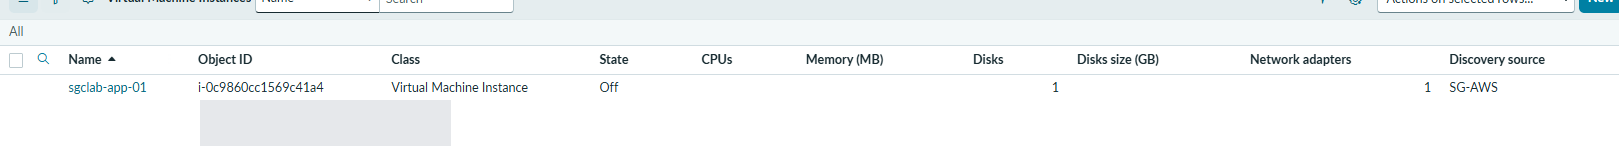
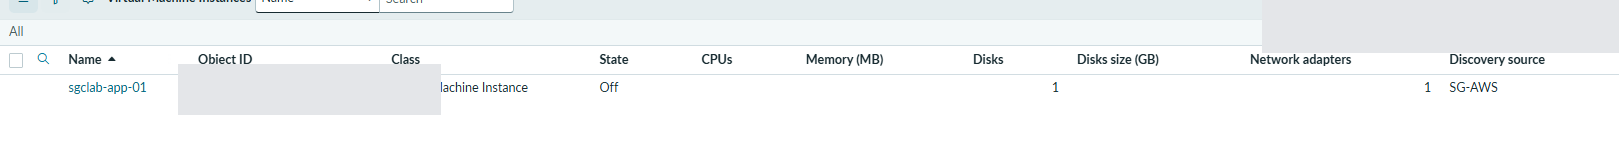
fix: redact Object ID cell in lab05 VM screenshot (privacy)
Correct crop box on data row; OCR self-check in redact script.
Document verified IntegrationHub ETL navigation for Lab 6 Part A.

Changed region(s): [[0.0926, 0.4295, 0.2779, 0.9933], [0.8338, 0.0, 1.0, 0.1074], [0.7721, 0.2953, 1.0, 0.3758]]

diff --git a/scripts/redact_lab05_screenshots.py b/scripts/redact_lab05_screenshots.py
@@ -1,23 +1,39 @@
 #!/usr/bin/env python3
 """Re-apply privacy crops for lab05 PNGs from maintainer source uploads."""
+from __future__ import annotations
+
+import re
+import sys
 from pathlib import Path
 
+import pytesseract
 from PIL import Image, ImageDraw
 
 SRC = Path("lab-walkthrough-screenshots/lab05")
 OUT = Path("assets/img/lab05")
 
+# Cropped list view: one data row (~y 74–108 at x≈215–420 is Object ID on walkthrough capture).
+_CROP_TOP = 72
+_OBJ_BOX = (178, 64, 440, 114)  # covers full Object ID cell on walkthrough capture
+_TOP_RIGHT = lambda w: (int(w * 0.78), 0, w, 52)
+
+INSTANCE_ID = re.compile(r"i-0|i-[0-9a-f]{8,}", re.I)
+
 
 def discovery(src: Path, dst: Path) -> None:
     im = Image.open(src).convert("RGB")
     w, h = im.size
-    im = im.crop((0, 72, w, h))
-    w, _ = im.size
+    im = im.crop((0, _CROP_TOP, w, h))
+    w, h = im.size
     dr = ImageDraw.Draw(im)
-    dr.rectangle((200, 100, 450, 145), fill=(230, 232, 235))
-    dr.rectangle((int(w * 0.82), 0, w, 48), fill=(230, 232, 235))
+    dr.rectangle(_OBJ_BOX, fill=(230, 232, 235))
+    x0, y0, x1, y1 = _TOP_RIGHT(w)
+    dr.rectangle((x0, y0, x1, y1), fill=(230, 232, 235))
     dst.parent.mkdir(parents=True, exist_ok=True)
     im.save(dst, optimize=True)
+    text = pytesseract.image_to_string(im)
+    if INSTANCE_ID.search(text):
+        sys.exit("redaction failed: instance id still visible to OCR")
 
 
 def crop_top(src: Path, dst: Path, top: int = 100) -> None:
@@ -34,6 +50,7 @@ def main() -> None:
     discovery(SRC / "discovery-source.png", OUT / "vm-discovery-source.png")
     crop_top(SRC / "ire-ident-rule-1.png", OUT / "vm-identification-rule.png")
     copy(SRC / "ire-dependent-rels.png", OUT / "vm-dependent-relationships.png")
+    print("wrote", OUT)
 
 
 if __name__ == "__main__":

diff --git a/labs/06-etl-mappings.md b/labs/06-etl-mappings.md
@@ -27,25 +27,35 @@ permalink: /labs/06-etl-mappings/
 
 Part A does not assume classic EC2 **`DescribeInstances`** JSON (`Reservations[].Instances[]`). This connector path is tied to **AWS Config** / Service Graph payloads — **your** import set row payload is the source of truth for JSON paths.
 
-## Part A — First safe navigation (confirm on your UI)
+## Part A — Verified navigation (read-only)
 
-Menu names move between releases. Use **Filter Navigator** and search; do not trust a single path from this doc until you see it:
+Walkthrough-confirmed path (yours should match before you trust it):
 
-1. Open **IntegrationHub**, **Flow Designer**, or the **Service Graph Connector for AWS** app — whichever exists.
-2. Search for **ETL**, **transform**, or **mapping** definitions tied to **EC2**, **VM**, or **hardware** (exact title varies).
-3. Open the definition used by **`SG-AWS-EC2`** (match name or schedule link on your release).
-4. In **Transform**, locate mappings targeting **`cmdb_ci_vm_instance`** (not `cmdb_ci_ec2_instance`).
+1. **All** → search **IntegrationHub ETL**.
+2. **Configuration → IntegrationHub ETL**.
+3. Expand **CMDB Application: SG-AWS** (count varies, e.g. **33**).
+4. Open **Name** **`SG-AWS-EC2-Instance`** — this is the **ETL definition**, not the scheduled import label **`SG-AWS-EC2`** and not the data source alone.
 
-**Learner confirmation:** write down the **exact definition name** and **three target fields** you see (`name`, `object_id`, and one tag). If you cannot find a mapping editor, stop at Part A — note “mapping UI not exposed on this PDI” and continue to Lab 7.
+**Transform Map Assistant** banner (verbatim meaning): no import set associated → maps are **read-only** until you pick a sample import set under **Specify Basic Details**. For this lab: **stay read-only** — do **not** select a sample, **do not** deactivate assistant controls to “unlock” edit.
 
-## Part A — Read one field (no edits)
+**Step 3 — Map Data to CMDB and Add Relationships** → **Select CMDB Classes to Map Source Data**. Observed cards on one instance:
 
-1. On the VM from Lab 5, note **`name`**, **`object_id`**, and one tag value on the form.
-2. In Transform, find the **target** field(s) for those attributes.
-3. Note the **source** expression or path shown in the UI (do not assume `Reservations[].Instances[]`).
-4. Open the latest **`SG-AWS-EC2`** import set row and view **payload** / staging data if the UI offers it — compare structure to the mapping path.
+| Card | Count | Notes |
+|---|---|---|
+| **Virtual Machine Instance** | 1 | Table **`cmdb_ci_vm_instance`**; dependent on `cmdb_ci_logical_datacenter`, `cmdb_ci_rubrik_cluster`, `cmdb_ci_kubernetes_cluster`, `cmdb_ci_virtualization_server`, `cmdb_ci_computer`; condition `object.isDeletedResource=false` |
+| Availability Zone | 1 | (shown; details not expanded in walkthrough) |
+| Cloud Network | 1 | |
+| Cloud Subnet | 1 | |
 
-**Screenshot slot (pending):** `assets/img/lab06/etl-vm-transform-readonly.png` — Transform stage with mappings visible; redact credentials.
+Next learner step: **View Mapping** on the **Virtual Machine Instance** card only (field-level mappings not yet captured in this doc — describe what you see in notes).
+
+**Do not** toggle controls, select sample import sets, or edit mappings for Part A minimum.
+
+## Part A — After View Mapping (no edits)
+
+1. On the VM from Lab 5, note display **`name`**, tags, and list columns you can see **without** pasting ids into git.
+2. In **View Mapping** for **Virtual Machine Instance**, record **target fields** and **source paths** exactly as labeled in the UI (do not assume `Reservations[].Instances[]`).
+3. Optional cross-check: latest **`SG-AWS-EC2`** import set row **payload** in ServiceNow — compare shape to source paths (keep payload private).
 
 ## Part B — Optional edit (own PDI only)
 
@@ -65,7 +75,7 @@ After an optional edit: **Execute Now** on **`SG-AWS-EC2`** only, confirm the VM
 **Minimum (Part A only):**
 
 <ul class="check">
-<li>You found the EC2/VM mapping surface on <b>your</b> instance (name recorded in notes)</li>
+<li>You opened <code>SG-AWS-EC2-Instance</code> under IntegrationHub ETL and saw <b>Virtual Machine Instance</b> card (read-only)</li>
 <li>You linked one VM field to a transform target <b>without</b> assuming REST EC2 JSON shape</li>
 <li>You know where import row <b>payload</b> lives for path verification</li>
 </ul>
